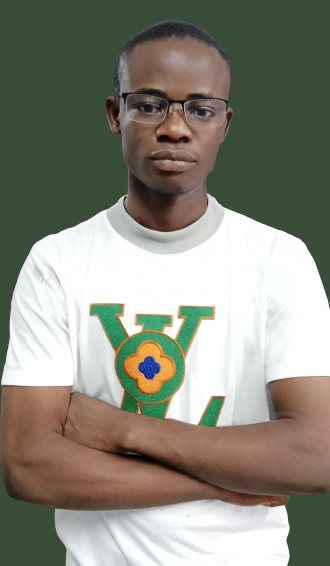
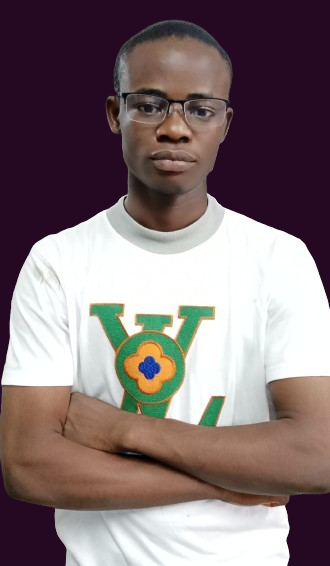
chnaging of color

diff --git a/style.css b/style.css
@@ -6,7 +6,7 @@
     scroll-behavior: smooth;
 }
 body{
-    background-color: #3a4d39;
+    background-color: #250821;
     color: #0ef;
 }
 h1,h2,h3,h4,h5,h6{
@@ -33,7 +33,7 @@ nav{
     font-family: 'Roboto Mono', monospace;
 }
 .logo h4{
-    color: #3a4d39;
+    color: #250821;
 }
 .logo span{
     font-size: 12px;
@@ -65,14 +65,14 @@ nav ul{
 }
 nav ul a{
     text-decoration: none;
-    color: #3a4d39;
+    color: #250821;
     font-size: 20px;
     font-weight: 500;
     letter-spacing: 1px;
     background-color: #eafbfb;
 }
 nav ul a:hover{
-    background-color: #3a4d39;
+    background-color: #250821;
     padding: 10px;
     color: #eafbfb;
     transition: 1.08s;
@@ -128,7 +128,7 @@ nav ul a:hover{
     overflow-x: hidden;
 }
 .social_icon a:hover{
-    color: #3a4d39;
+    color: #250821;
 }
 .social_icon a:hover::before{
     width: 100%;
@@ -146,7 +146,7 @@ nav ul a:hover{
     width: 150px;
     font-size: 18px;
     font-weight: 400;
-    background-color: #3a4d39;
+    background-color: #250821;
     letter-spacing: 1px;
     color: #eafbfb;
     outline: none;
@@ -172,7 +172,7 @@ nav ul a:hover{
     width: 100%;
 }
 .home_text button:hover{
-    color: #3a4d39;
+    color: #250821;
 }
 .home_image img{
     width: 280px;
@@ -238,7 +238,7 @@ nav ul a:hover{
     align-items: center;
 }
 .skill p{
-    color: #3a4d39;
+    color: #250821;
 }
 .skill_text{
     max-width: 500px;
@@ -254,8 +254,8 @@ nav ul a:hover{
 .bar{
     height: 7px;
     width: 100%;
-    background-color: #3a4d39;
-    box-shadow: 0 0 .3em #3a4d39;
+    background-color: #250821;
+    box-shadow: 0 0 .3em #250821;
 }
 .progress-content{
     display: flex;
@@ -288,7 +288,7 @@ nav ul a:hover{
     font-size: 15px;
     color: #0ef;
     font-weight: 300;
-    background-color: #3a4d39;
+    background-color: #250821;
     outline: none;
     border: none;
     box-shadow: 0 0 .2em #eafbfb;
@@ -303,7 +303,7 @@ nav ul a:hover{
     font-weight: 400;
     letter-spacing: 1px;
     line-height: 1;
-    background-color: #3a4d39;
+    background-color: #250821;
     padding: 10px 0;
     width: 300px;
     border: none;
@@ -331,7 +331,7 @@ nav ul a:hover{
     width: 100%;
 }
 .form button:hover{
-    color: #3a4d39;
+    color: #250821;
     font-weight: 600;
 }
 /* -----------------FOOTER--------------- */
@@ -346,7 +346,7 @@ footer p{
     font-size: 12px;
     font-weight: 500;
     letter-spacing: 1px;
-    color: #3a4d39;
+    color: #250821;
     line-height: 1;
 }
 
@@ -466,7 +466,7 @@ footer p{
         overflow: hidden;
         transition: 1.05s;
         border-radius: 0 0 15px 15px;
-        box-shadow: inset 0 0 10em #3a4d39;
+        box-shadow: inset 0 0 10em #250821;
     }
     nav .open{
         transition: height 1s;
@@ -480,12 +480,12 @@ footer p{
     nav ul a:hover{
         padding: 5px 10px;
         transition: 0.5s;
-        background-color: #3a4d39;
+        background-color: #250821;
         color: #eafbfb;
     }
     nav button{
         display: block;
-        background-color: #3a4d39;
+        background-color: #250821;
         color: #eafbfb;
         padding: 0 10px;
         font-size: 1.2em;

diff --git a/index.html b/index.html
@@ -100,6 +100,15 @@
                 </div>
                 <div class="card">
                     <div class="card-header">
+                        <i class="fa-brands fa-node"></i>
+                    </div>
+                    <div class="card-body">
+                        <h2>Server side</h2>
+                        <p>Lorem ipsum, dolor sit amet consectetur adipisicing elit. Dicta eum porro consequatur id placeat alias quia dolo</p>
+                    </div>
+                </div>
+                <div class="card">
+                    <div class="card-header">
                         <i class="fa-solid fa-bug"></i>
                     </div>
                     <div class="card-body">
